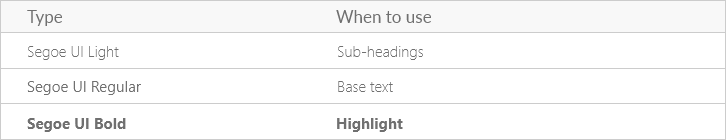
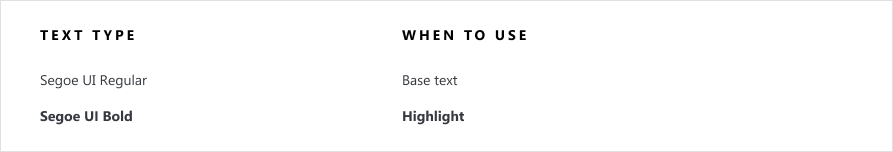
Typography page.

diff --git a/User-Experience/Typography/index.md b/User-Experience/Typography/index.md
@@ -11,95 +11,40 @@ Good typography is invisible, enabling users to have a seamless experience while
 
 M-Files Desktop uses Segoe UI typeface.
 
-![Typefaces. Segoe UI Light is used in sub-headings. Segoe UI Regular is used as base text. Segoe UI Bold is used to highlight text.](typefaces.png){:.borderless}
+![Typefaces. Segoe UI Light is used in sub-headings. Segoe UI Regular is used as base text. Segoe UI Bold is used to highlight text.](Typefaces.png){:.borderless}
 
 ## Scale
 
 Typography has 4 different scales.
 
-![Scale. Heading size is 22px and weight regular. Sub-Heading size is 14p and weight regular. Sub heading italic size is 12px and weight regular. Base size is 13px and weight regular.](scale.png){:.borderless}
+![Typography scale](Scale.png){:.borderless}
 
 ## Text and background
 
 Text is displayed bit diferently depending on the background color. With blue background white text is used and with gray background darker text is used.
 
-![Text and background. With blue background text color is white. With light background text color is black or gray.](text-background.png){:.borderless}
+![With blue background text color is white. With light background text color is black or gray.](Text background.png){:.borderless}
 
 ## How to use and when
 
 Below is explained how to use different fonts in M-Files Desktop.
 
+### Vault listing typography
+
+![Vault listing typography](Vault-listing-typography.png){:.borderless}
+
+1.	Lato 14px, White #FFFFFF
+2.	Lato 16px, Gray 1 #363A40
+3.	Lato 14px, Gray 1 #363A40
+4.	Lato 14px, Gray 1 #363A40
+
 ### Metadata card and text
 
-![Metadata card and text](metadatacard-text.png){:.borderless}
+![Metadata card typography](Metadata-typography.png){:.borderless}
 
-1. Heading 22px, Gray 3, #676767
-2. Sub-heading (Italic) 12px, Gray 4, #808080
-3. Base 13px,  Gray 5, #999999
-4. Base 13px, Main black, #000000
-5. Base (italic) 13px
-
-### Vault view and text
-
-![Vault view and text](vault-view-text.png){:.borderless}
-
-1. Base 13px, Main white, #FFFFFF
-2. Base 13px (bold), Gray 1, #333333
-3. Base 13px, Main black, #000000
-
-{% comment %} 
-
-## Web Typography
-
-### Web Typefaces
-
-M-Files Web uses Lato typeface.
-
-![Web typefaces](web-typefaces.png){:.borderless}
-
-### Web Scale
-
-Typography scale changes according to text.
-
-![Web typefaces](web-scale.png){:.borderless}
-
-### Web Text and background colors
-
-Text is displayed bit diferently depending on the background color.
-
-![Web text and background](web-text-and-background.png){:.borderless}
-
-### Web How to use and when
-
-Below is explained how to use different fonts in M-Files Web.
-
-![Web how to use and when](web-how-to-use-and-when.png){:.borderless}
-
-
-## Manage Typography
-
-### Manage Typefaces
-
-M-Files Manage uses Lato typeface.
-
-![Manage typefaces](manage-typefaces.png){:.borderless}
-
-### Manage Scale
-
-Typography scale changes according to text.
-
-![Manage scale](manage-scale.png){:.borderless}
-
-### Manage Text and background colors
-
-Text is displayed bit diferently depending on the background color.
-
-![Manage text and background](manage-text-and-background-colors.png){:.borderless}
-
-### Manage How to use and when
-
-Below is explained how to use different fonts in M-Files Web.
-
-![Manage how when](manage-how-to-use-and-when.png){:.borderless}
-
- {% endcomment %}
+1.	Lato 20px, Gray 1 #363A40
+2.	Lato 14px, Gray 2 #767676
+3.	Lato 14px, Gray 2 #767676
+4.	Lato 14px, Gray 1 #363A40
+5.	Lato 14px, Gray 1 #363A40
+6.	Lato 14px, Gray 1 #363A40
